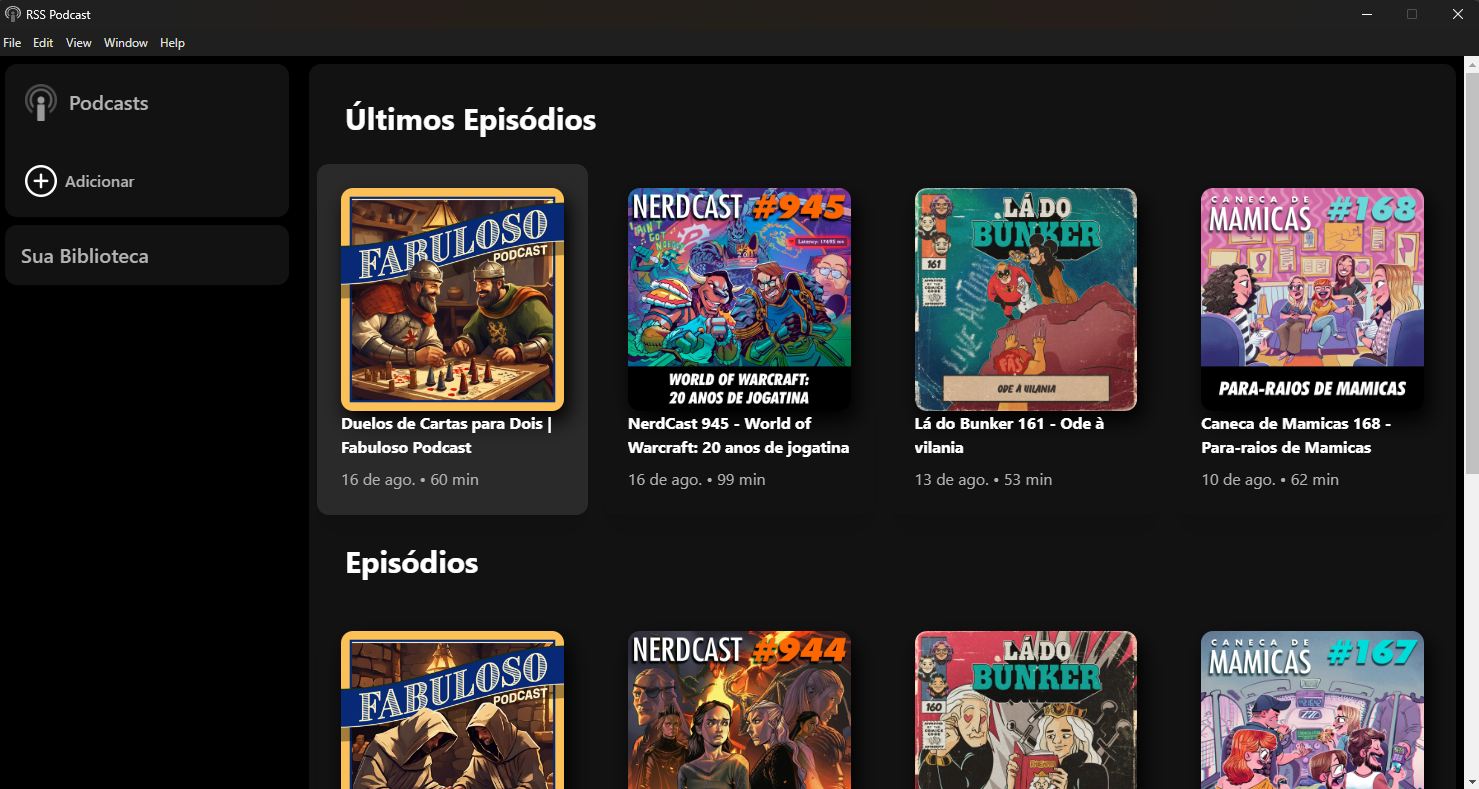
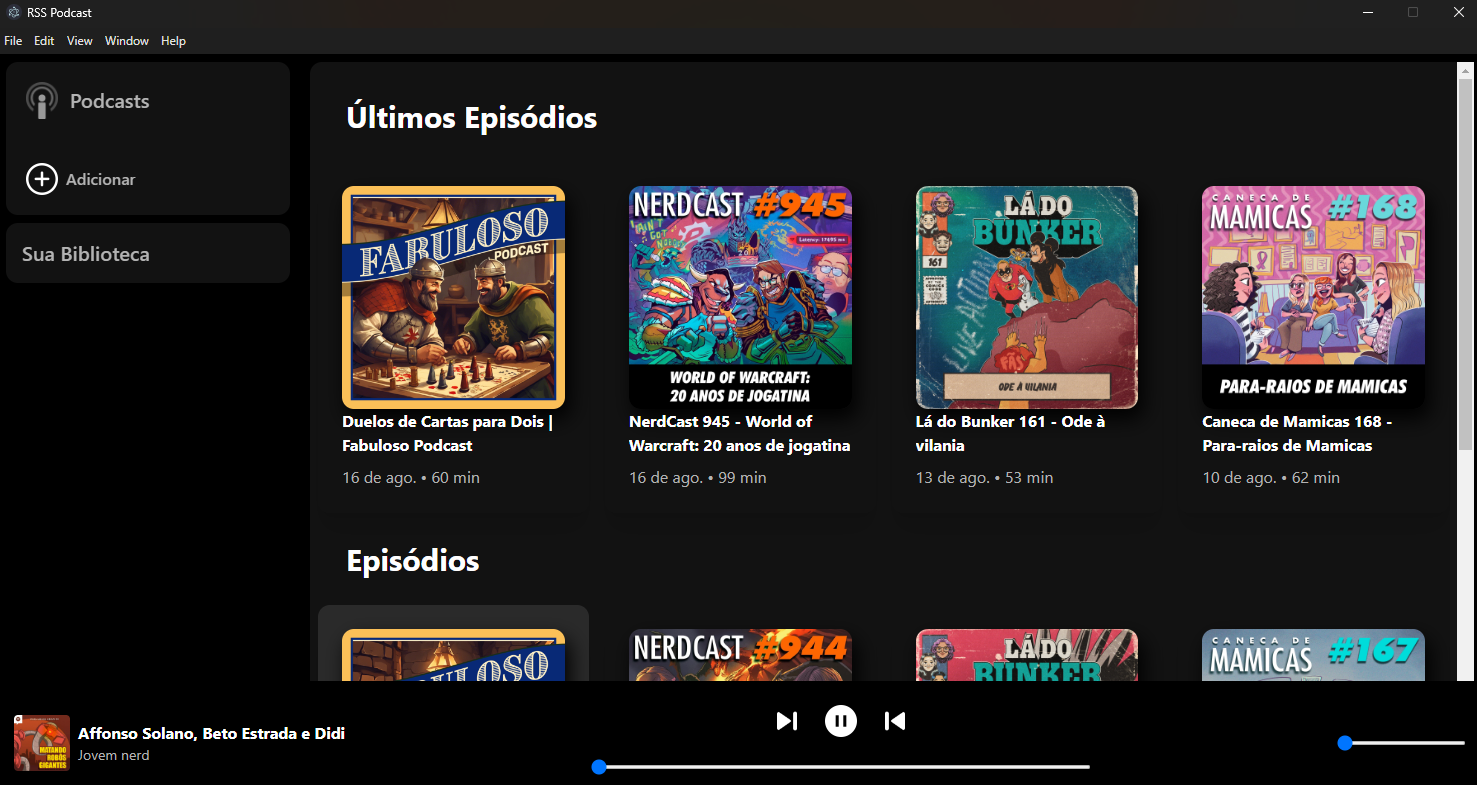
Feat: Adicionar o layout do footer e player audio
Adicionei o layout do player sound no footer da aplicação. Para isso
criei um componente chamado Footer e Player. No componente Player ficará
toda a logica de controle de audio.

diff --git a/renderer/app/page.tsx b/renderer/app/page.tsx
@@ -3,6 +3,9 @@ import { FormEvent, useCallback, useEffect, useState } from "react";
 import { IRssItem } from '../../services/rss-to-json'
 import { PodcastsGrid } from "../components/PodcastsGrid";
 import { Main } from "../components/Main";
+import { Footer } from "../components/Footer";
+import { Player } from "../components/Player";
+import { Sidebar } from "../components/Siderbar";
 
 export default function Page() {
     const [form, setForm] = useState('')
@@ -23,28 +26,52 @@ export default function Page() {
     const ep = rss?.slice(4)
 
     return (
-        rss ? (
-            <Main.Root>
-                <Main.Title title="Últimos Episódios" />
+        <div className='flex gap-1 fixed'>
+            {rss ? (
+                <>
 
-                <PodcastsGrid.Root>
-                    {lastEp.map((item) => (
-                        <PodcastsGrid.Content key={item.id + '_last'}>
-                            <PodcastsGrid.Card image={item.itunes_image.href} author={item.author} title={item.title} published={item.published} durationate={item['itunes_duration']} />
-                        </PodcastsGrid.Content>
-                    ))}
-                </PodcastsGrid.Root>
+                    <Sidebar.Root>
+                        <Sidebar.Content>
+                            <Sidebar.Header />
+                            <Sidebar.Actions icon='https://cdn-icons-png.flaticon.com/512/992/992651.png' text='Adicionar' />
+                        </Sidebar.Content>
+                        <Sidebar.Content>
+                            <p className='text-xl font-semibold p-2'>Sua Biblioteca</p>
+                        </Sidebar.Content>
+                    </Sidebar.Root>
 
-                <Main.Title title="Episódios" />
+                    <Main.Root>
+                        <Main.Title title="Últimos Episódios" />
 
-                <PodcastsGrid.Root>
-                    {ep.map((item) => (
-                        <PodcastsGrid.Content key={item.id + '_ep'}>
-                            <PodcastsGrid.Card image={item.itunes_image.href} author={item.author} title={item.title} published={item.published} durationate={item['itunes_duration']} />
-                        </PodcastsGrid.Content>
-                    ))}
-                </PodcastsGrid.Root>
-            </ Main.Root>
-        ) : 'Carregando...'
+                        <PodcastsGrid.Root>
+                            {lastEp.map((item) => (
+                                <PodcastsGrid.Content key={item.id + '_last'}>
+                                    <PodcastsGrid.Card image={item.itunes_image.href} author={item.author} title={item.title} published={item.published} durationate={item['itunes_duration']} />
+                                </PodcastsGrid.Content>
+                            ))}
+                        </PodcastsGrid.Root>
+
+                        <Main.Title title="Episódios" />
+
+                        <PodcastsGrid.Root>
+                            {ep.map((item) => (
+                                <PodcastsGrid.Content key={item.id + '_ep'}>
+                                    <PodcastsGrid.Card image={item.itunes_image.href} author={item.author} title={item.title} published={item.published} durationate={item['itunes_duration']} />
+                                </PodcastsGrid.Content>
+                            ))}
+                        </PodcastsGrid.Root>
+                    </ Main.Root>
+
+                    <Footer.Root>
+                        <Player.Root>
+                            <Player.Info author={'Jovem nerd'} image="https://i.scdn.co/image/ab67656300005f1f1a3579d894141338e90b87d6" title="Affonso Solano, Beto Estrada e Didi " />
+                            <Player.Progress />
+                            <Player.Control />
+                        </Player.Root>
+                    </Footer.Root>
+                </>
+            ) : 'Carregando...'}
+
+        </div>
     )
 }

diff --git a/renderer/app/layout.tsx b/renderer/app/layout.tsx
@@ -8,19 +8,8 @@ export default function RootLayout({
 }) {
     return (
         <html lang='pt-br'>
-            <body className='flex gap-1 fixed'>
-                <Sidebar.Root>
-                    <SidebarContent>
-                        <Sidebar.Header />
-                        <Sidebar.Actions icon='https://cdn-icons-png.flaticon.com/512/992/992651.png' text='Adicionar' />
-                    </SidebarContent>
-                    <Sidebar.Content>
-                        <p className='text-xl font-semibold p-2'>Sua Biblioteca</p>
-                    </Sidebar.Content>
-                </Sidebar.Root>
-                <main className='h-screen overflow-auto'>
-                    {children}
-                </main>
+            <body>
+                {children}
             </body>
         </html>
     )

diff --git a/renderer/components/Player/PlayerProgress.tsx b/renderer/components/Player/PlayerProgress.tsx
@@ -1,0 +1,12 @@
+export function PlayerProgress() {
+    return (
+        <div className="flex flex-col items-center justify-center">
+            <div className="flex gap-3 items-center">
+                <img className="w-5 h-5 filter invert cursor-pointer m-2" src="https://cdn-icons-png.freepik.com/512/84/84268.png" />
+                <img className="w-8 h-8 filter invert cursor-pointer m-2" src="https://cdn-icons-png.freepik.com/512/431/431013.png" />
+                <img className="w-5 h-5 filter invert cursor-pointer m-2 transform -scale-x-100" src="https://cdn-icons-png.freepik.com/512/84/84268.png" />
+            </div>
+            <input type="range" className="w-[500px] h-1 m-5" max={100} defaultValue={5} />
+        </div>
+    )
+}

diff --git a/renderer/components/Player/PlayerInfo.tsx b/renderer/components/Player/PlayerInfo.tsx
@@ -1,0 +1,17 @@
+interface IPlayerInfo {
+    image: string;
+    author: string;
+    title: string;
+}
+
+export function PlayerInfo({author,image,title}:IPlayerInfo) {
+    return (
+        <div className="flex gap-2 items-center">
+            <img className="w-14 rounded" src={image} />
+            <div className="flex flex-col">
+                <p className="font-bold text-white hover:underline">{title}</p>
+                <p className="text-sm hover:underline hover:text-white">{author}</p>
+            </div>
+        </div>
+    )
+}

diff --git a/renderer/components/Player/index.tsx b/renderer/components/Player/index.tsx
@@ -1,0 +1,11 @@
+import { PlayerControl } from "./PlayerControl";
+import { PlayerInfo } from "./PlayerInfo";
+import { PlayerProgress } from "./PlayerProgress";
+import { PlayerRoot } from "./PlayerRoot";
+
+export const Player = {
+    Root: PlayerRoot,
+    Info: PlayerInfo,
+    Progress: PlayerProgress,
+    Control: PlayerControl
+}

diff --git a/renderer/components/Main/MainRoot.tsx b/renderer/components/Main/MainRoot.tsx
@@ -4,7 +4,7 @@ interface IMainRoot {
 
 export function MainRoot({children}: IMainRoot) {
     return (
-        <div className="p-2 m-2 rounded-xl bg-background-base shadow-2xl">
+        <div className="p-2 m-2 rounded-xl bg-background-base shadow-2xl pb-32 h-screen overflow-auto">
             {children}
         </div>
     )

diff --git a/renderer/components/Player/PlayerRoot.tsx b/renderer/components/Player/PlayerRoot.tsx
@@ -1,0 +1,10 @@
+interface IPlayerRoot {
+    children: React.ReactNode
+}
+export function PlayerRoot({children}:IPlayerRoot) {
+    return (
+        <div className="flex justify-between p-4 bg-background w-screen">
+            {children}
+        </div>
+    )
+}

diff --git a/renderer/components/Footer/FooterRoot.tsx b/renderer/components/Footer/FooterRoot.tsx
@@ -1,0 +1,11 @@
+interface IFooterRoot {
+    children: React.ReactNode
+}
+
+export function FooterRoot({children}: IFooterRoot) {
+    return (
+        <div className="absolute bottom-0 left-0">
+            {children}
+        </div>
+    )
+}

diff --git a/renderer/components/Player/PlayerControl.tsx b/renderer/components/Player/PlayerControl.tsx
@@ -1,0 +1,7 @@
+export function PlayerControl() {
+    return (
+        <div className="flex items-center">
+            <input type="range" className="h-1" />
+        </div>
+    )
+}

diff --git a/renderer/components/Footer/index.tsx b/renderer/components/Footer/index.tsx
@@ -1,0 +1,5 @@
+import { FooterRoot } from "./FooterRoot";
+
+export const Footer = {
+    Root: FooterRoot
+}
